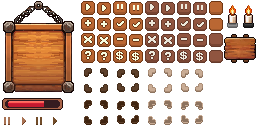
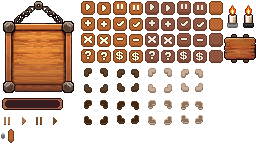
progress with frying pan interaction

diff --git a/logic/game/Order.cs b/logic/game/Order.cs
@@ -11,11 +11,11 @@ public class Order
     
     private float timeRemaining;
 
-    public OrderState state = OrderState.Waiting;
+    private OrderState state = OrderState.WaitingToStart;
 
-    public void SetRecipe(Recipe recipe)
+    public void SetRecipe(Recipe r)
     {
-        this.recipe = recipe;
+        this.recipe = r;
 
         foreach (var recipeStep in recipe.steps)
         {
@@ -33,7 +33,7 @@ public class Order
 
     public OrderStep GetNextStep()
     {
-        if (state == OrderState.Waiting)
+        if (state == OrderState.WaitingToStart)
             return currentStep;
         
         int currentStepIndex = orderSteps.IndexOf(currentStep);
@@ -45,5 +45,44 @@ public class Order
         }
         
         return orderSteps[nextStepIndex];
+    }
+
+    public OrderState GetState()
+    {
+        if (state == OrderState.Failed || state == OrderState.Complete)
+            return state;
+
+        UpdateState();
+        return state;
+    }
+
+    private void UpdateState()
+    {
+        var currentStepState = GetCurrentStepState();
+        if (currentStepState == OrderStepState.FinishedFailed)
+            state = OrderState.Failed;
+        else if (currentStep == steps[0] && currentStepState == OrderStepState.None)
+            state = OrderState.WaitingToStart;
+        else if (currentStepState == OrderStepState.InProgress)
+            state = OrderState.InProgress;
+        else if (currentStep == steps[^1] && currentStepState == OrderStepState.Finished)
+            state = OrderState.Complete;
+        else if (currentStepState == OrderStepState.Finished)
+            state = OrderState.WaitingToProgress;
+    }
+
+    public OrderStepState GetCurrentStepState()
+    {
+        switch (currentStep)
+        {
+            case { didStepFail: true }:
+                return OrderStepState.FinishedFailed;
+            case { isStepFinished: true }:
+                return OrderStepState.Finished;
+            case { isStepInProgress: true }:
+                return OrderStepState.InProgress;
+            default:
+                return OrderStepState.None;
+        }
     }
 }

diff --git a/logic/game/equipment_interaction/FryingPanDisplay.cs b/logic/game/equipment_interaction/FryingPanDisplay.cs
@@ -1,13 +1,71 @@
+using Godot;
+
 public partial class FryingPanDisplay : EquipmentDisplay
 {
+    [Export]
+    private Slider slider;
+
+    private int minSliderValueForProgress = 5;
+    private int maxSliderValueForProgress = 15;
+
+    private double timeSinceLastProgressCheck = 0f;
+
+    public override void SetEquipment(Equipment e)
+    {
+        base.SetEquipment(e);
+        equipment.OnChange += OnEquipmentChange;
+    }
+
+    private void OnEquipmentChange()
+    {
+        var timedEquipment = equipment as TimedEquipment;
+        if (timedEquipment?.currentOrder == null)
+        {
+            timeSinceLastProgressCheck = 0;
+            return;
+        }
+
+        if (timedEquipment.currentOrder.currentStep.progressPercent == 0) //proxy for finding the point where a new step is started
+        {
+            timeSinceLastProgressCheck = timedEquipment.secondsBetweenProgressChecks;
+        }
+    }
+
+    public override void _Process(double delta)
+    {
+        base._Process(delta);
+        timeSinceLastProgressCheck += delta;
+        TryMakeProgress();
+    }
+
     protected override bool CanMakeProgress()
     {
         if (!base.CanMakeProgress())
             return false;
         
-        if (currentOrderDisplay.order.currentStep.didStepFail)
+        if (equipment.currentOrder.currentStep.didStepFail)
             return false;
 
+        if (equipment is not TimedEquipment timedEquipment)
+            return false;
+        
+        if (timeSinceLastProgressCheck < timedEquipment.secondsBetweenProgressChecks)
+            return false;
+        
         return true;
+    }
+
+    protected override void MakeProgress()
+    {
+        if (slider.Value < minSliderValueForProgress)
+            return;
+        if (slider.Value > maxSliderValueForProgress)
+        {
+            //DO SOMETHING HERE
+            return;
+        }
+        
+        //add a timer between progress increases here
+        equipment.currentOrder.currentStep.MakeProgress(10);
     }
 }

diff --git a/logic/game/equipment_interaction/EquipmentDisplay.cs b/logic/game/equipment_interaction/EquipmentDisplay.cs
@@ -25,7 +25,7 @@ public abstract partial class EquipmentDisplay : Control
         orderManager = null;
     }
 
-    public void SetEquipment(Equipment e)
+    public virtual void SetEquipment(Equipment e)
     {
         equipment = e;
         equipment.OnChange += RefreshCurrentOrderDisplay;
@@ -110,14 +110,14 @@ public abstract partial class EquipmentDisplay : Control
 
     protected virtual bool CanMakeProgress()
     {
-        if (currentOrderDisplay?.order == null)
+        if (currentOrderDisplay?.order == null || equipment.currentOrder?.currentStep == null)
             return false;
         return true;
     }
 
-    private void MakeProgress()
+    protected virtual void MakeProgress()
     {
-        currentOrderDisplay.order.currentStep.MakeProgress(50);
+        equipment.currentOrder.currentStep.MakeProgress(equipment.GetProgressPercent());
     }
     
     public Order GetCurrentDisplayedOrder()
@@ -125,5 +125,10 @@ public abstract partial class EquipmentDisplay : Control
         if (currentOrderDisplay == null)
             return null;
         return currentOrderDisplay.order;
+    }
+    
+    public Order GetCurrentEquipmentOrder()
+    {
+        return equipment.currentOrder;
     }
 }

diff --git a/logic/data/equipment/FryingPan.cs b/logic/data/equipment/FryingPan.cs
@@ -1,7 +1,28 @@
 using Godot;
 
 [GlobalClass]
-public partial class FryingPan : Equipment
+public partial class FryingPan : TimedEquipment
 {
+    [Export]
+    public int sliderMax { get; private set; } = 20;
     
+    [Export]
+    public int sliderOptimal { get; private set; } = 10;
+    
+    [Export]
+    public int sliderOkayDistanceFromOptimal { get; private set; } = 5;
+
+    public override float GetProgressPercent(float input = 0)
+    {
+        //input for frying pan should be slider value
+        if (input > sliderOptimal + sliderOkayDistanceFromOptimal) //order is burning!
+            return 0;
+
+        if (input < sliderOptimal - sliderOkayDistanceFromOptimal)
+            return 0;
+
+        var distanceFromOptimal = Mathf.Abs(input - sliderOptimal);
+        //at extreme edges of okay range, order cooks at 50% speed; increases linearly to 100% at optimal
+        return defaultProgress * 0.5f + (1f - distanceFromOptimal/sliderOkayDistanceFromOptimal) * 0.5f; 
+    }
 }

diff --git a/logic/data/equipment/Equipment.cs b/logic/data/equipment/Equipment.cs
@@ -15,6 +15,9 @@ public abstract partial class Equipment : AbstractLoadableDataResource
 
     [Export]
     public PackedScene scene;
+    
+    [Export]
+    public float defaultProgress { get; private set; }
 
     public Action OnChange;
 
@@ -40,7 +43,6 @@ public abstract partial class Equipment : AbstractLoadableDataResource
         //if this is to do with another order than the one that's at this equipment, i don't care
         if (orderStateChangedEvent.order != currentOrder)
             return;
-
         
         Log.Print($"{name} {currentOrder.recipe.name}", true);
         
@@ -57,5 +59,10 @@ public abstract partial class Equipment : AbstractLoadableDataResource
     {
         Log.Print(name, true);
         OnChange?.Invoke();
+    }
+
+    public virtual float GetProgressPercent(float input = 0)
+    {
+        return defaultProgress * input;
     }
 }

diff --git a/logic/game/OrderManager.cs b/logic/game/OrderManager.cs
@@ -65,15 +65,10 @@ public class OrderManager : AbstractManager
 
     public void OnOrderMovedToEquipment(Equipment equipment, Order order)
     {
-        if (order.state == OrderState.Waiting)
-        {
-            order.state = OrderState.InProgress;
-        }
-
         if (order.currentStep.equipment != equipment)
             order.MoveToNextStep();
         
-        if (!order.currentStep.isStepInProgress)
+        if (order.GetCurrentStepState() == OrderStepState.None)
             order.currentStep.StartStep();
         
         eventDispatcher.Dispatch(new OrderStateChangedEvent(order));

diff --git a/logic/game/equipment_interaction/ChoppingBoardDisplay.cs b/logic/game/equipment_interaction/ChoppingBoardDisplay.cs
@@ -5,8 +5,13 @@ public partial class ChoppingBoardDisplay : EquipmentDisplay
         if (!base.CanMakeProgress())
             return false;
 
-        if (currentOrderDisplay.order.currentStep.isStepFinished)
+        if (equipment.currentOrder.currentStep.isStepFinished)
             return false;
         return true;
+    }
+
+    protected override void MakeProgress()
+    {
+        currentOrderDisplay.order.currentStep.MakeProgress(10);
     }
 }

diff --git a/logic/data/equipment/TimedEquipment.cs b/logic/data/equipment/TimedEquipment.cs
@@ -1,0 +1,11 @@
+using Godot;
+
+[GlobalClass]
+public abstract partial class TimedEquipment : Equipment
+{
+    [Export]
+    public float secondsBetweenProgressChecks { get; private set; } = 1f;
+
+    [Export(PropertyHint.Range, "100,150,1,or_greater,prefer_slider")]
+    public int percentFailureThreshold { get; private set; } = 120;
+}

diff --git a/logic/game/OrderState.cs b/logic/game/OrderState.cs
@@ -1,6 +1,8 @@
 public enum OrderState
 {
-    Waiting,
+    WaitingToStart,
     InProgress,
-    Complete
+    WaitingToProgress,
+    Complete,
+    Failed,
 }

diff --git a/logic/game/OrderStepState.cs b/logic/game/OrderStepState.cs
@@ -1,0 +1,7 @@
+public enum OrderStepState
+{
+    None,
+    InProgress,
+    Finished,
+    FinishedFailed
+}
